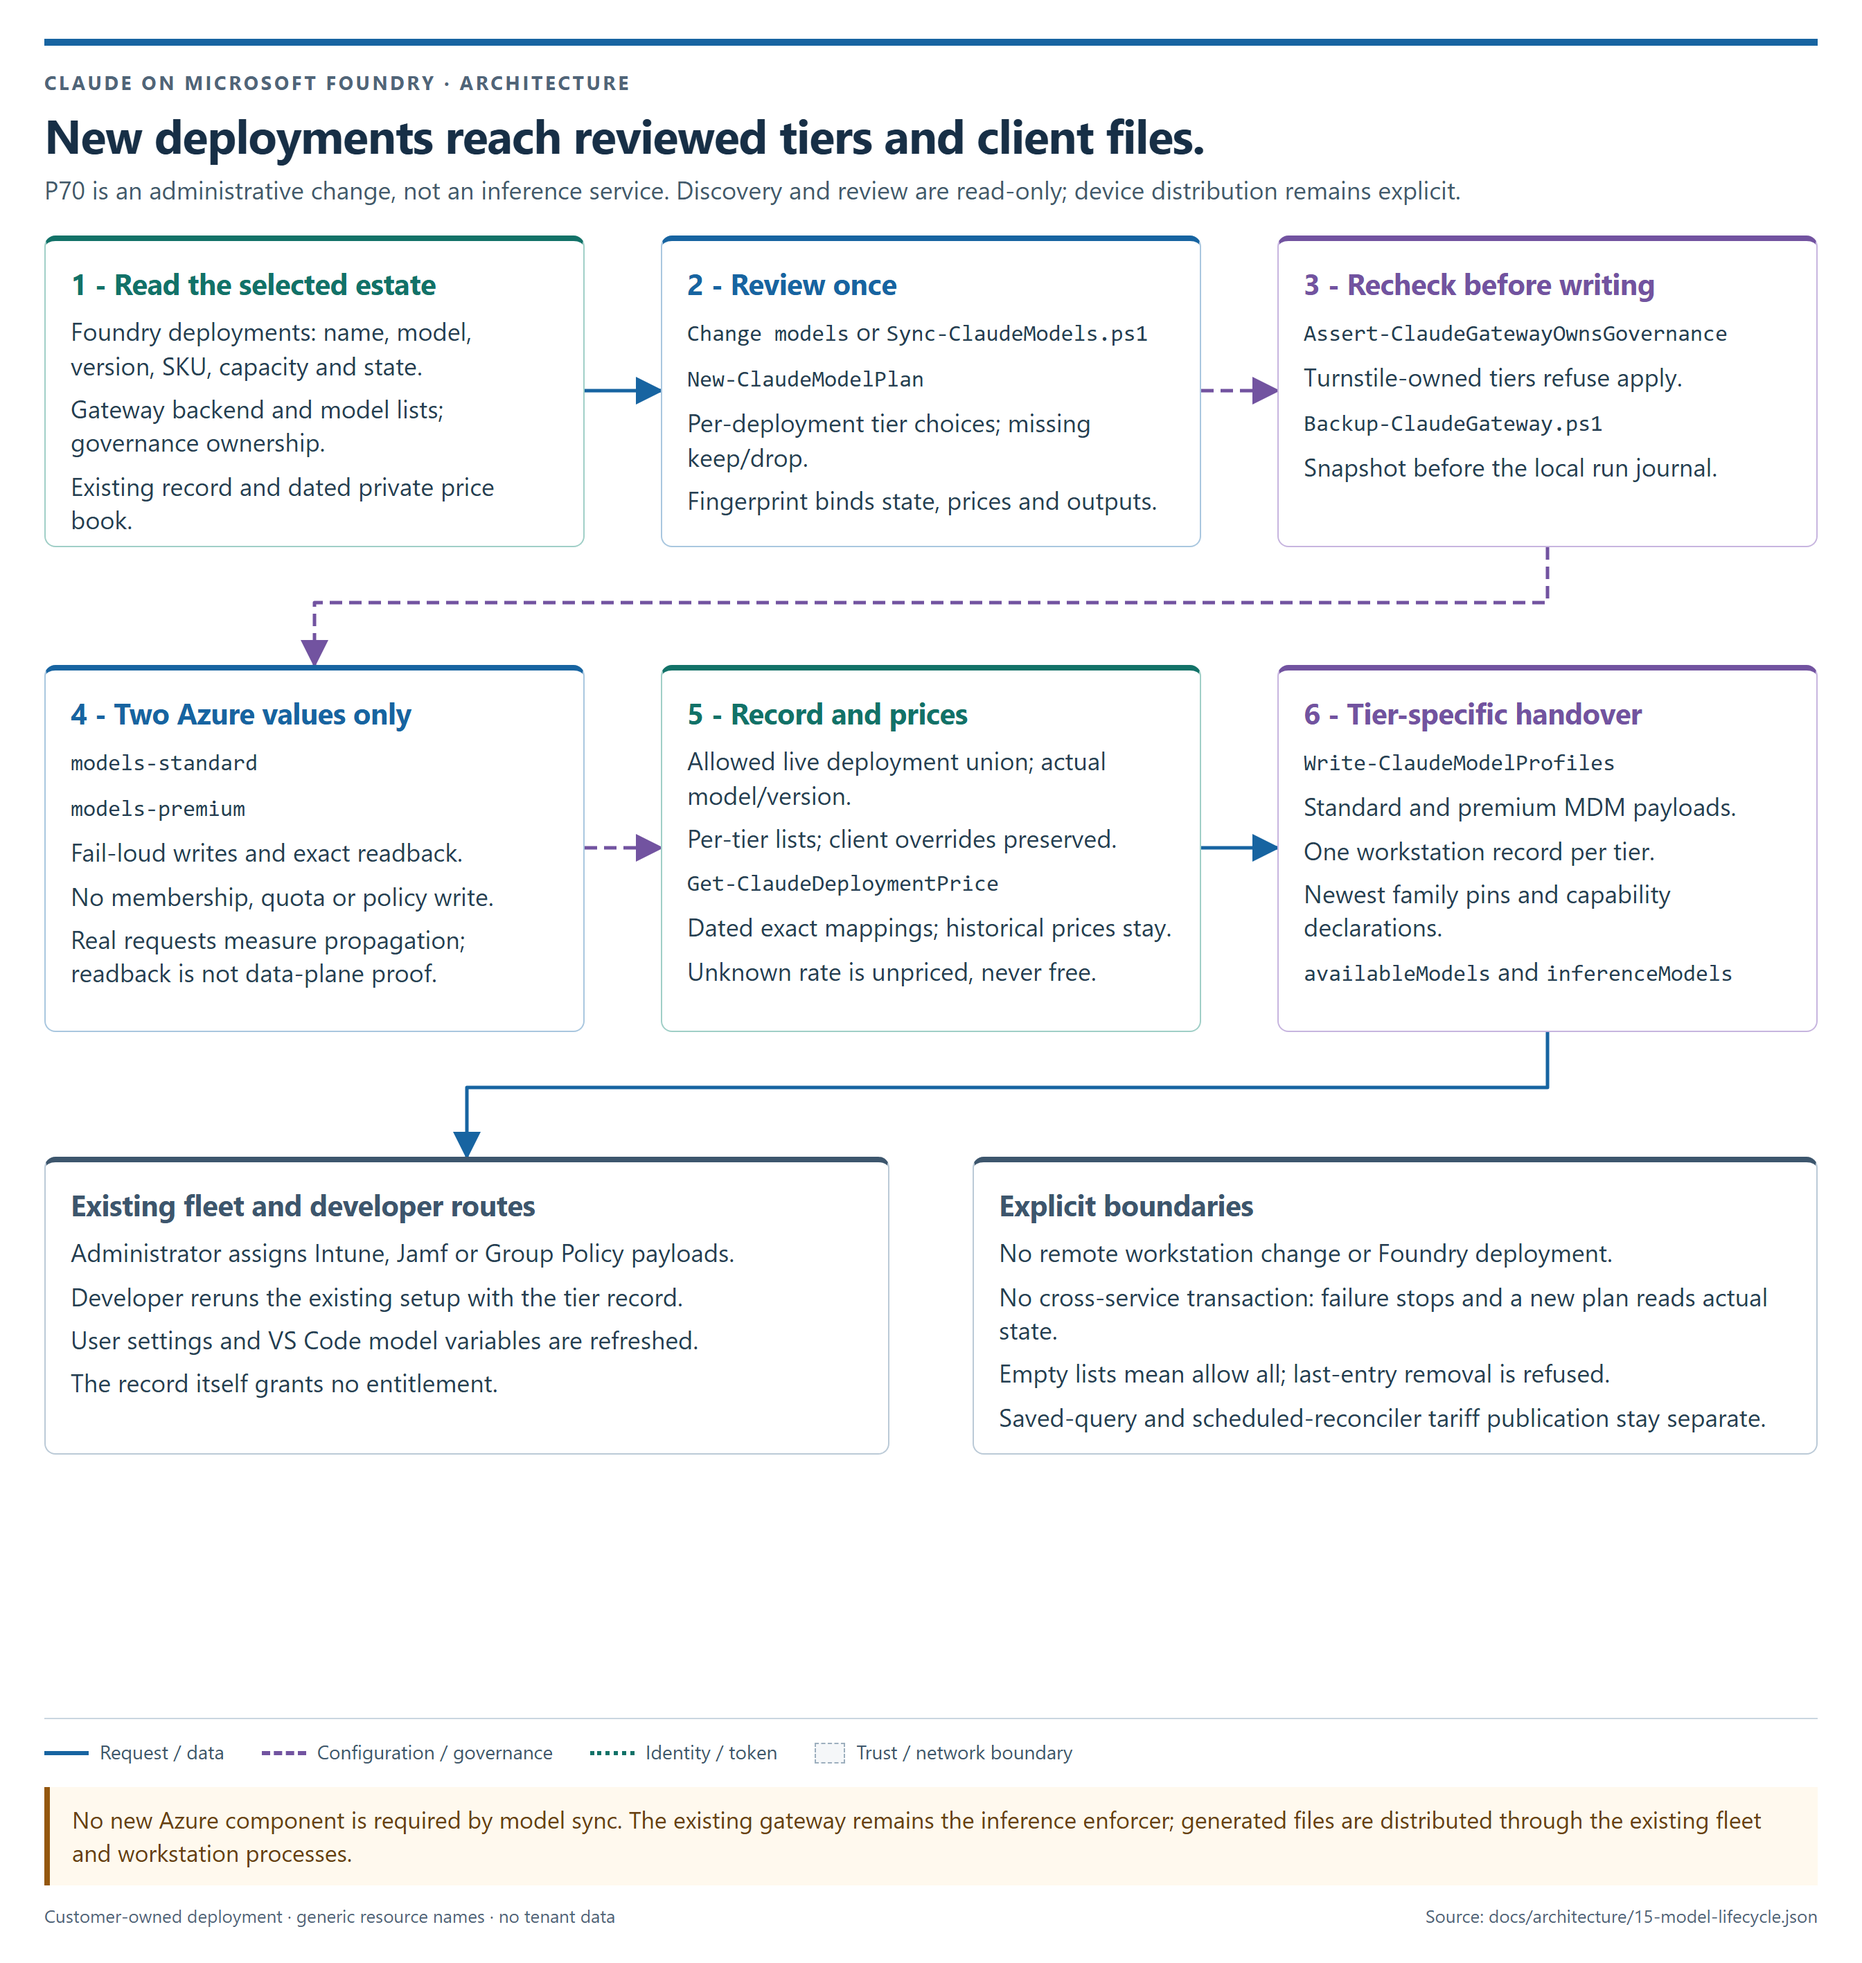
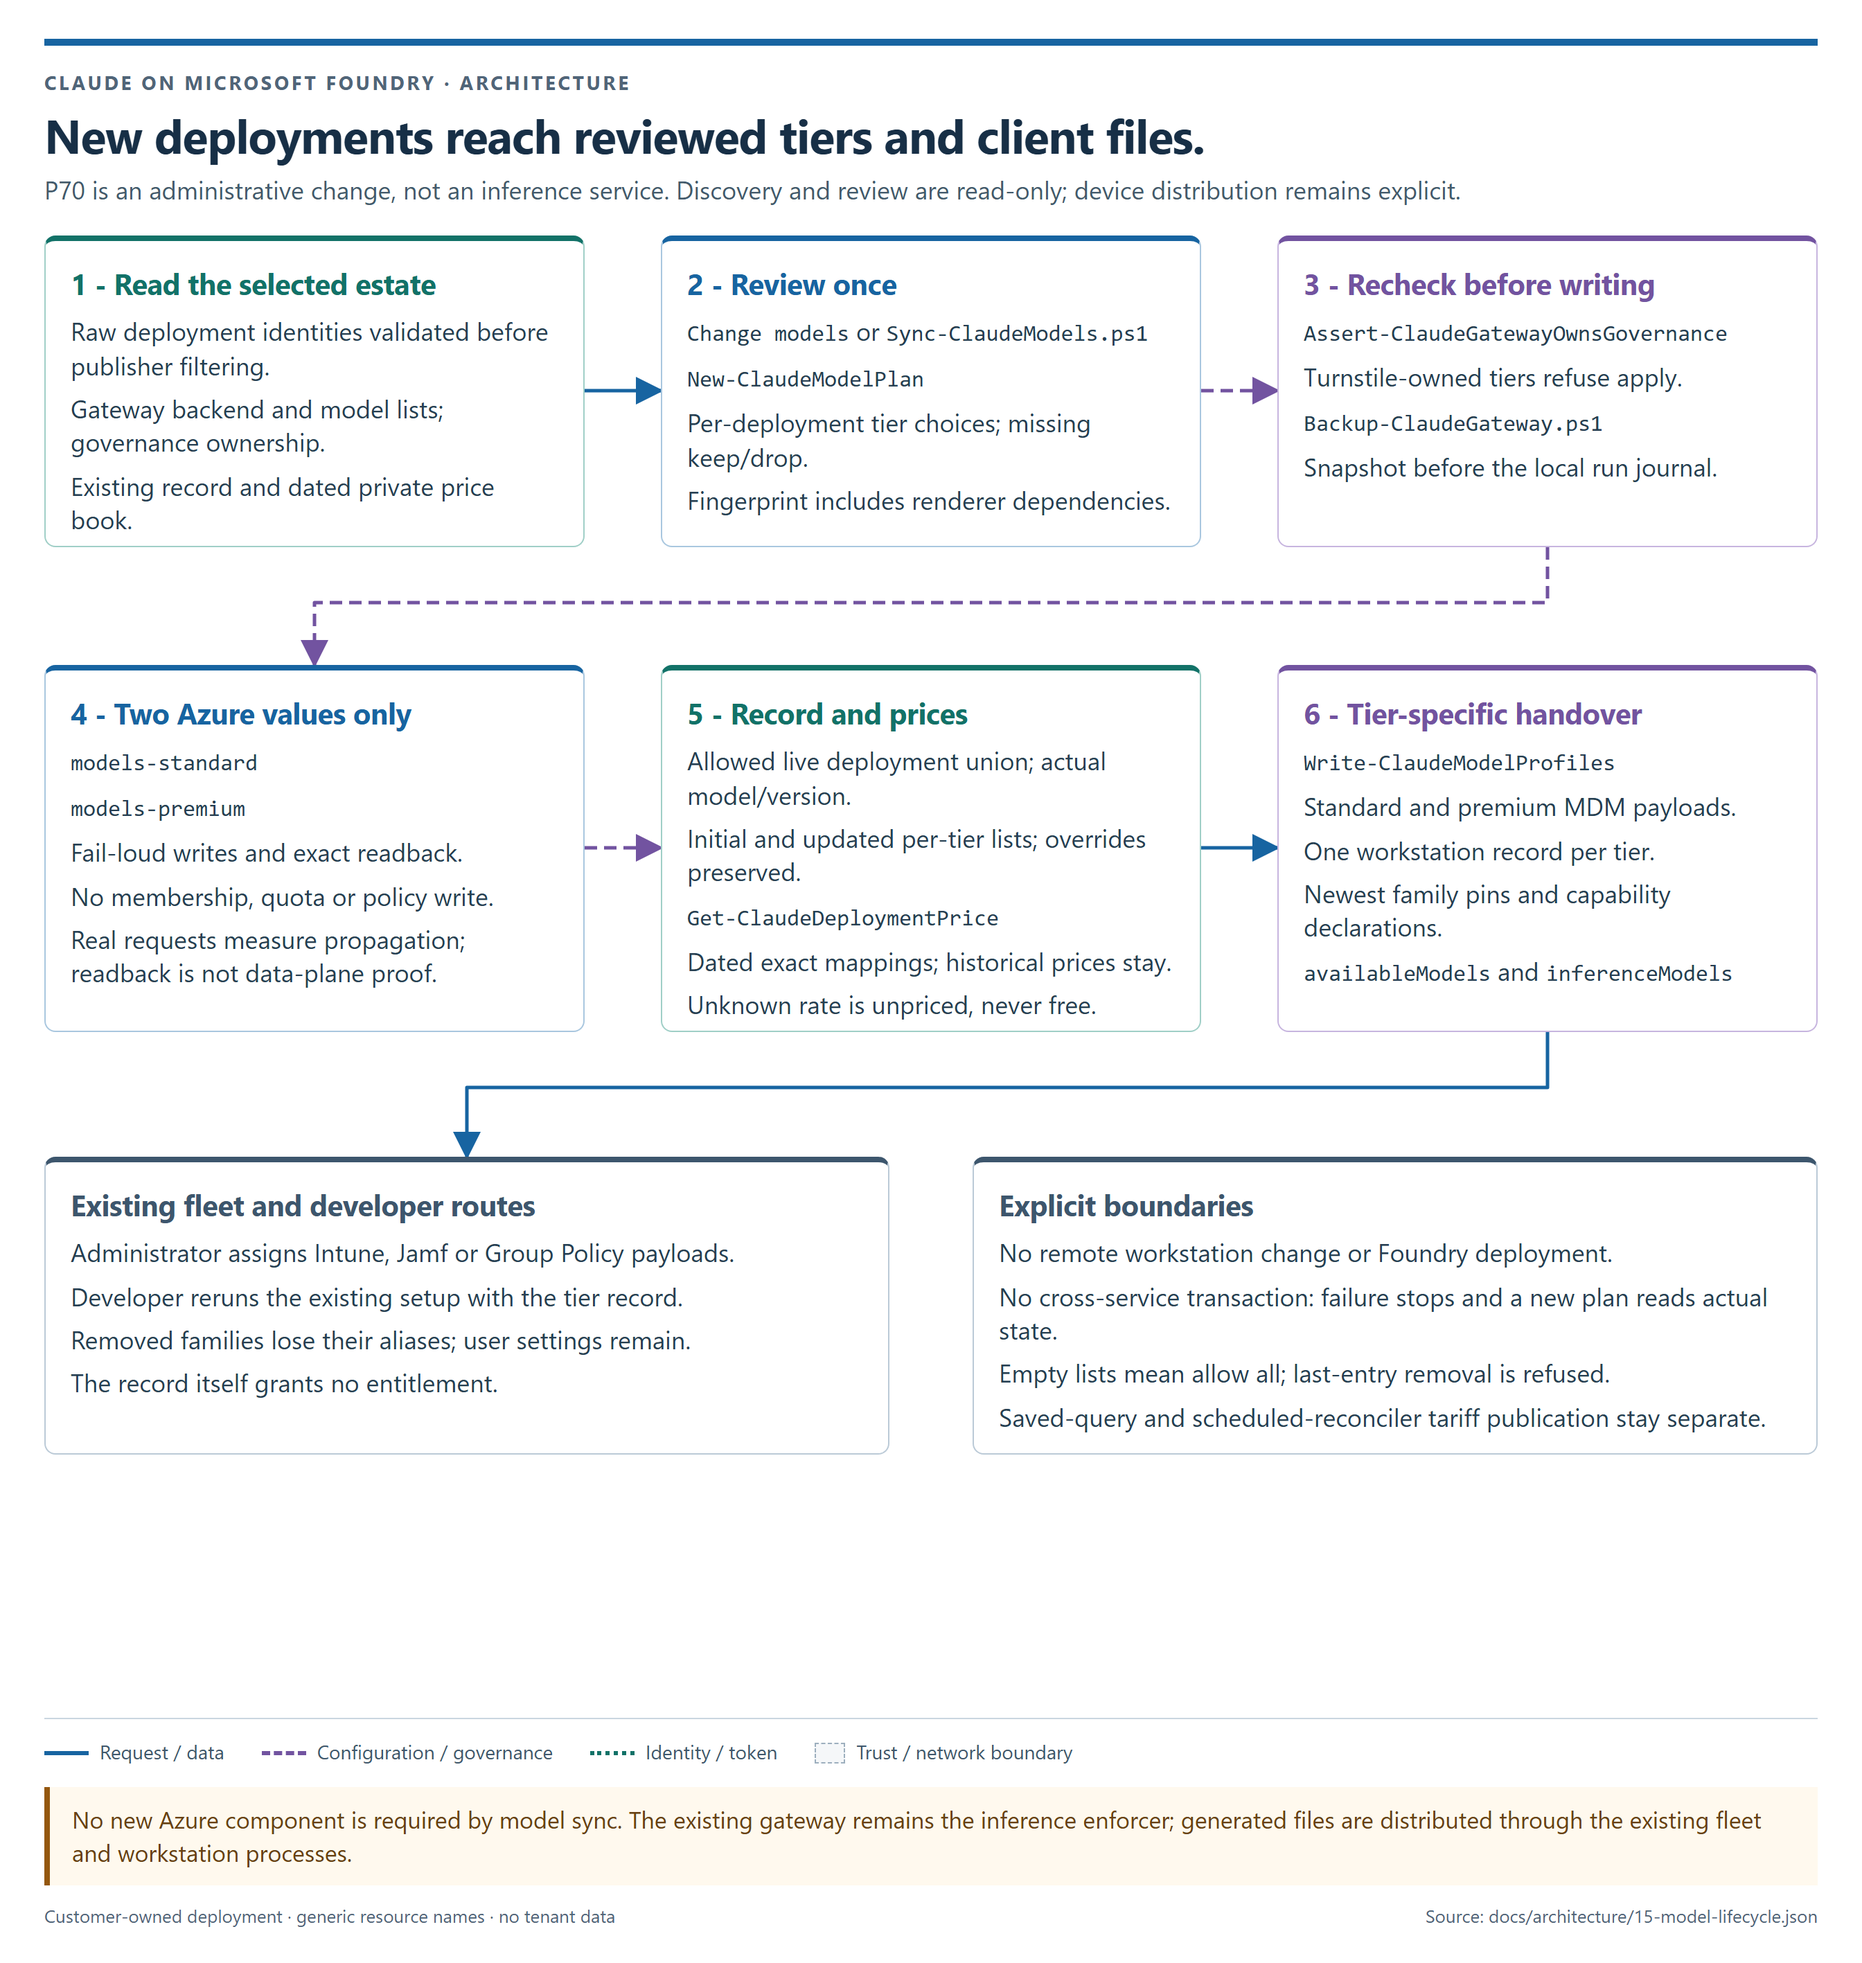
test(p70): prove council detectors and refresh architecture evidence
All 18 lifecycle and three workstation-alias mutations are caught on each PowerShell host
with the full 135 or 13 assertions and passing restored runs. Refresh the source-backed
architecture without adding Azure resources or changing the packet-gate timeout.

Copilot-Session: 1c966b06-b3de-42c0-9254-3a62ae5081bc

Changed region(s): [[0.375, 0.4037, 0.625, 0.5279], [0.0312, 0.1553, 0.2812, 0.2174], [0.4375, 0.2484, 0.625, 0.2795]]

diff --git a/docs/STATUS.md b/docs/STATUS.md
@@ -46,6 +46,21 @@ Final lifecycle assertions: 135 on each host, all passing. A valid single-deploy
 object cannot substitute for an inventory array. A missing principal now stops before
 the snapshot or any model write; its regression failed on both hosts before the guard.
 
+Negative verification completed: 21 mutations caught on each host, with no incomplete
+run. The 18 lifecycle mutations each ran all 135 assertions; the three alias mutations
+each ran all 13 workstation-model assertions. Baseline and restored runs passed on
+PowerShell 7 and 5.1. The matrix covers raw identity shape/fields and both callers,
+native discovery failure and array shape, empty/normalized selections, both initial tier
+records, renderer stamps and rechecks, history fields, missing principal, token scoping,
+nested generated paths and each removed model-family alias.
+
+Related regressions passed: ModelDeployment 46, ModelsAndPlugins 92, FlowContract 29,
+GuidedFlow 44 and Architecture 36 assertions, plus Azure CLI argument checks, documentation
+references, named-value guards, script encoding and Test-All runner integrity. The 15-spec
+architecture was regenerated and its changed model-lifecycle image inspected. The added
+workstation suite takes about 2 seconds per run; no new long-running suite is registered.
+The packet gate, under the unchanged timeout and shared lock, is the remaining step.
+
 Acceptance criteria:
 
 - [x] A Change-only `models` step and a standalone model-sync command discover the chosen

diff --git a/docs/ARCHITECTURE.md b/docs/ARCHITECTURE.md
@@ -60,6 +60,11 @@ Turnstile-owned tiers. Client-file generation is separate from MDM assignment
 and a developer rerunning setup. Unpriced models remain visible; publication
 of a changed tariff to reporting and scheduled reconcilers is a separate
 financial operation.
+Raw deployment identities are validated before publisher filtering. The
+review fingerprint includes all current profile/record renderer dependencies,
+not just the top-level generator. The installer persists the same per-tier
+lists that later model changes use, and both workstation setup implementations
+remove aliases for families that are no longer selected.
 
 ## Request path
 
